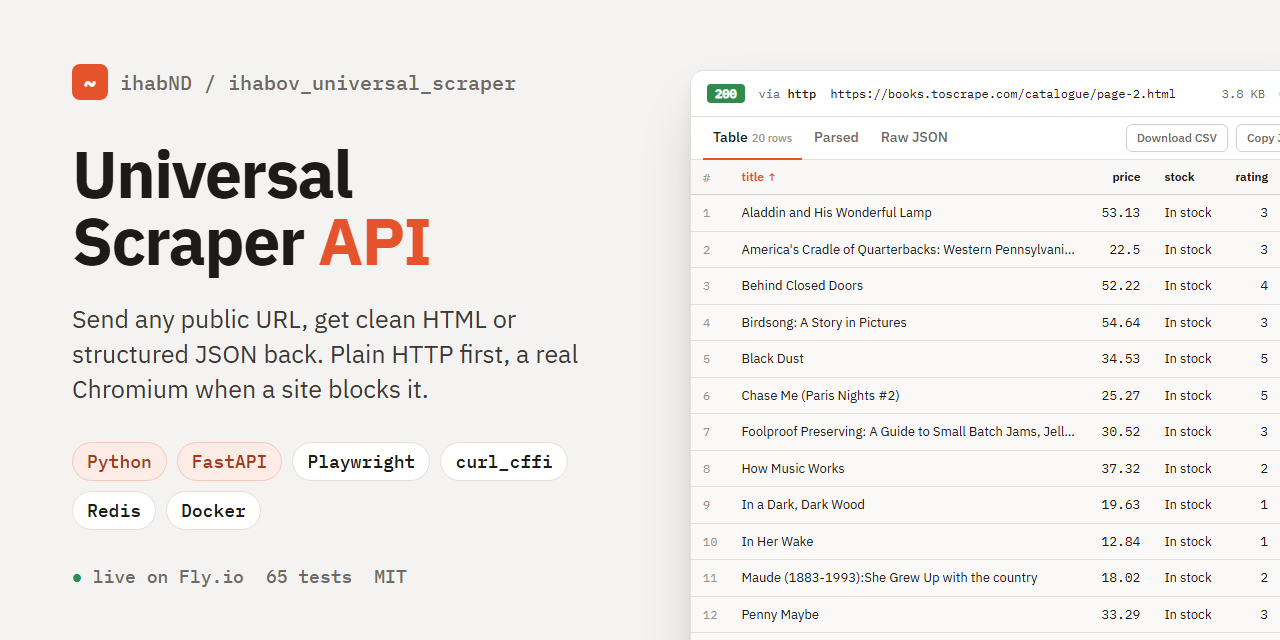
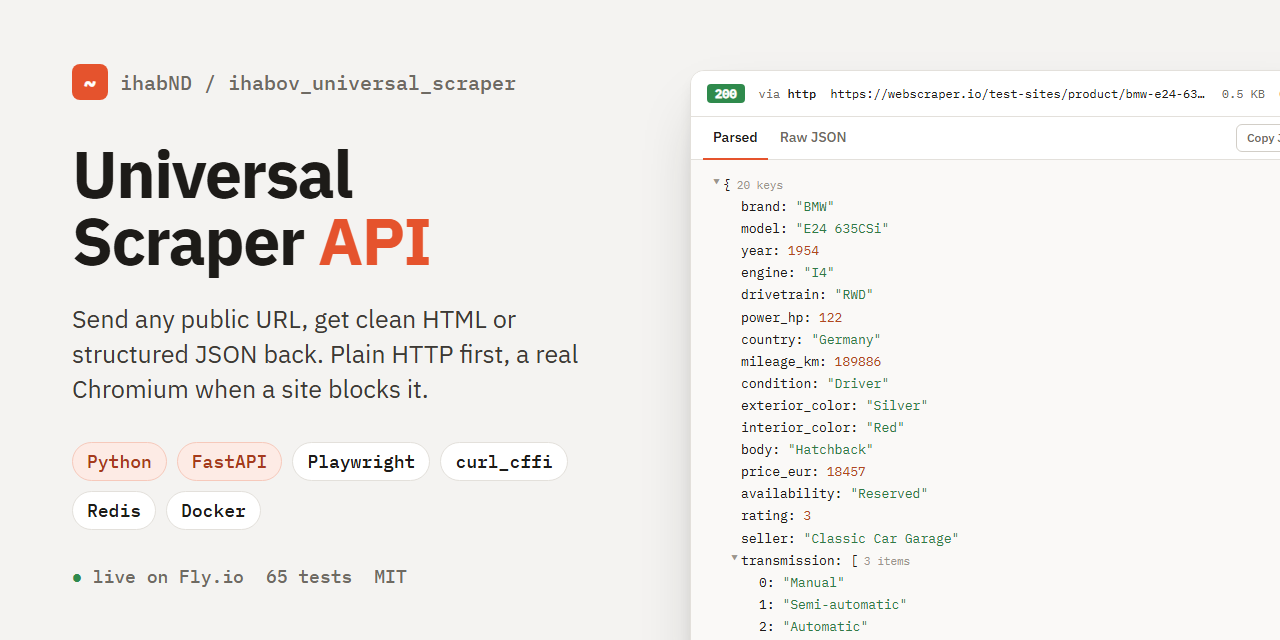
Use the car page in the demo GIF, screenshot and social card

diff --git a/README.md b/README.md
@@ -4,7 +4,7 @@ A web-scraping API: send it any public URL and get back clean HTML, or structure
 
 [![tests](https://github.com/ihabND/ihabov_universal_scraper/actions/workflows/tests.yml/badge.svg)](https://github.com/ihabND/ihabov_universal_scraper/actions/workflows/tests.yml) ![Python](https://img.shields.io/badge/python-3.12-blue) ![FastAPI](https://img.shields.io/badge/FastAPI-009688) ![Redis](https://img.shields.io/badge/Redis-cache%20%26%20quotas-DC382D) ![license](https://img.shields.io/badge/license-MIT-lightgrey)
 
-![The web workbench scraping a book listing into a sortable table](docs/images/demo.gif)
+![The web workbench turning a car listing page into structured JSON](docs/images/demo.gif)
 
 **Live demo: [ihabov-universal-scraper.fly.dev](https://ihabov-universal-scraper.fly.dev)** (the API docs are open; scraping needs an API key, which I hand out on request). The server scales to zero when idle, so the first request after a quiet spell takes a few seconds while it starts.
 
